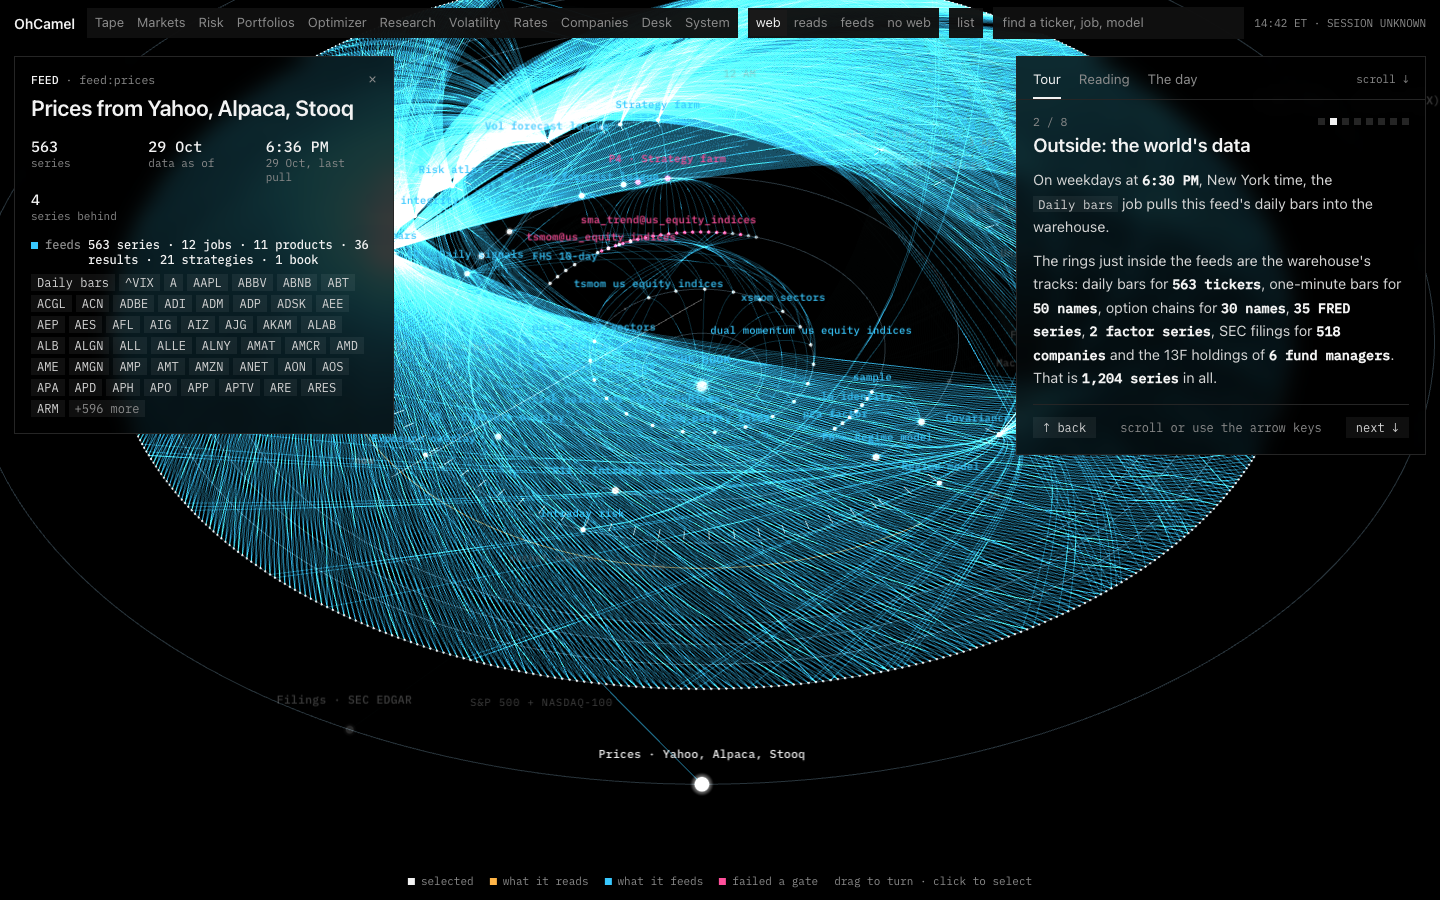
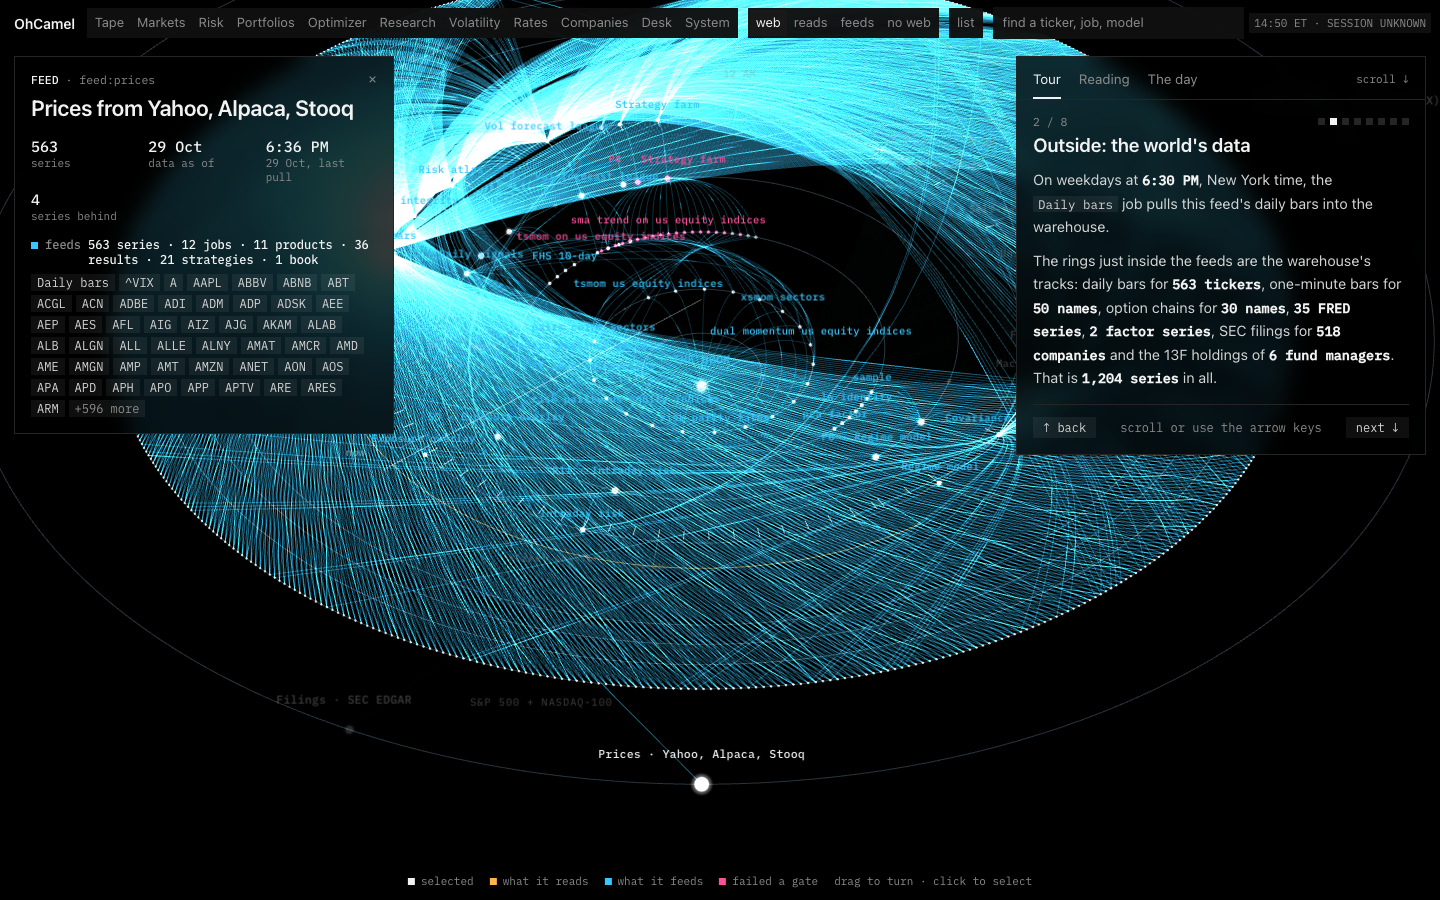
web: the machine's plain words for farm cells, chips that name their track, a status tile and a README that shows the machine
A farm cell's label is its key (dual_momentum@international); chips, scene labels, the list and the
search fallback now write it in words through one helper, shownLabel (the server's ids and labels are
unchanged, and search still matches the raw label). A series chip whose track is the minute, option or
filings track says so (AAPL minute), through chipLabel, so it is no longer the same as its daily bars.
The leaderboard's cell names carry their full plain name as a title, for when they end in an ellipsis.
The bar's status gets a solid tile like its controls, so the book step's edges cannot wash it out.
README shows the machine's first tour step in place of the old front page. The eight machine shots are
retaken from the scratch store.

Changed region(s): [[0.0938, 0.1244, 0.8438, 0.7778], [0.5312, 0.0933, 0.7188, 0.3111], [0.2188, 0.0, 0.4375, 0.1556]]

diff --git a/quant/web/src/pages/machine/shown.test.ts b/quant/web/src/pages/machine/shown.test.ts
@@ -1,0 +1,53 @@
+import { describe, expect, it } from "vitest";
+import { FIXTURE } from "./fixture";
+import { chipLabel, shownLabel } from "./shown";
+import type { MNode } from "./types";
+
+const at = (k: MNode["k"], l: string, m: Record<string, unknown> = {}): Pick<MNode, "k" | "l" | "m"> => ({ k, l, m });
+
+describe("shownLabel", () => {
+  it("writes a farm cell's key in words: the at sign is 'on', underscores are spaces", () => {
+    expect(shownLabel(at("result", "dual_momentum@international"))).toBe("dual momentum on international");
+    expect(shownLabel(at("result", "tsmom@us_equity_indices"))).toBe("tsmom on us equity indices");
+  });
+
+  it("reads every result of the fixture as the plain name the server gives it", () => {
+    const cells = FIXTURE.nodes.filter((n) => n.k === "result" && n.l.includes("@"));
+    expect(cells.length).toBeGreaterThan(1);
+    for (const n of cells) expect(shownLabel(n)).toBe(n.n);
+  });
+
+  it("leaves the label of every other kind as it is, underscores and all", () => {
+    for (const k of ["series", "strategy", "product", "job", "feed", "book", "kill", "limit"] as const) expect(shownLabel(at(k, "a_b@c"))).toBe("a_b@c");
+  });
+
+  it("leaves a result label that has neither mark alone", () => {
+    expect(shownLabel(at("result", "GARCH"))).toBe("GARCH");
+  });
+});
+
+describe("chipLabel", () => {
+  it("names the track of a series that is not the ticker's daily bars", () => {
+    expect(chipLabel(at("series", "AAPL", { track: "minute" }))).toBe("AAPL minute");
+    expect(chipLabel(at("series", "AAPL", { track: "options" }))).toBe("AAPL options");
+    expect(chipLabel(at("series", "AAPL", { track: "filings" }))).toBe("AAPL filings");
+  });
+
+  it("leaves the daily bars, and series that carry their own names, as they are", () => {
+    expect(chipLabel(at("series", "AAPL", { track: "daily" }))).toBe("AAPL");
+    expect(chipLabel(at("series", "CPIAUCSL", { track: "macro" }))).toBe("CPIAUCSL");
+    expect(chipLabel(at("series", "FF5", { track: "factors" }))).toBe("FF5");
+    expect(chipLabel(at("series", "AAPL"))).toBe("AAPL");
+  });
+
+  it("gives a result its plain words and names no track for anything but a series", () => {
+    expect(chipLabel(at("result", "xsmom@sectors", { track: "minute" }))).toBe("xsmom on sectors");
+    expect(chipLabel(at("strategy", "pairs distance sectors", { track: "minute" }))).toBe("pairs distance sectors");
+  });
+
+  it("makes the chips of one ticker's tracks different from each other", () => {
+    const ticker = FIXTURE.nodes.filter((n) => n.k === "series" && n.l === "NVDA");
+    expect(ticker.length).toBeGreaterThan(1);
+    expect(new Set(ticker.map(chipLabel)).size).toBe(ticker.length);
+  });
+});

diff --git a/quant/web/src/pages/machine/shown.ts b/quant/web/src/pages/machine/shown.ts
@@ -1,0 +1,27 @@
+/**
+ * How a node's short label (`l`) is written on the page: one rule, for the scene's labels, the chips and the list.
+ * The server's ids and labels are not changed, and search still matches the raw label as well. Pure.
+ */
+import type { MNode } from "./types";
+
+/**
+ * A node's label in plain words. A farm cell's label is its key ("dual_momentum@international"), which reads as
+ * the code it is, so "@" is read as " on " and the underscores as spaces ("dual momentum on international").
+ * Every other kind's label is already words and comes back as it is.
+ */
+export function shownLabel(n: Pick<MNode, "k" | "l">): string {
+  return n.k === "result" ? n.l.replace(/@/g, " on ").replace(/_/g, " ") : n.l;
+}
+
+/** The tracks whose series carry a ticker's label, the same as its daily bars' ("AAPL"), so a chip must say which it is. */
+const TRACK_WORD: Record<string, string> = { minute: "minute", options: "options", filings: "filings" };
+
+/**
+ * A node's label on a chip: `shownLabel`, and for a series that is not the ticker's daily bars, its track
+ * ("AAPL minute", "AAPL options", "AAPL filings"). A daily series, and the series whose labels are their own names
+ * (a FRED series, a factor, a filer), stay as they are.
+ */
+export function chipLabel(n: Pick<MNode, "k" | "l" | "m">): string {
+  const track = n.k === "series" && typeof n.m.track === "string" ? TRACK_WORD[n.m.track] : undefined;
+  return track ? `${shownLabel(n)} ${track}` : shownLabel(n);
+}

diff --git a/quant/web/src/pages/machine/prose.ts b/quant/web/src/pages/machine/prose.ts
@@ -4,6 +4,7 @@
  */
 import { hm, instant, num, nyDay, nyTime, nyYear, pct, plural } from "./fmt";
 import type { MNode, Run } from "./types";
+import { shownLabel } from "./shown";
 import { directReaders, webOf } from "./web";
 import type { GraphIndex } from "./web";
 
@@ -106,7 +107,7 @@ export function reason(gi: GraphIndex, s: string): string {
 export const node = (gi: GraphIndex, i: number): MNode => gi.out.nodes[i];
 /** How a node is named in running text: its plain name where its label is a code or a slug. */
 function refText(n: MNode): string {
-  if (n.k === "product" || n.k === "result") return n.n || n.l;
+  if (n.k === "product" || n.k === "result") return n.n || shownLabel(n);
   if (n.k === "book") return "the book";
   if (n.k === "kill") return "the kill switch";
   return n.l || n.id;
@@ -147,7 +148,7 @@ export function readers(gi: GraphIndex, i: number): Seg[] {
 /** A covariance estimator by its node's label ("lw constant corr"), or its id in words when there is no node. */
 export function estimator(gi: GraphIndex, e: string): Seg {
   const i = gi.byId.get(`ce:${e}`);
-  return ref(gi, `ce:${e}`, (i !== undefined && node(gi, i).l) || e.replace(/_/g, " "));
+  return ref(gi, `ce:${e}`, (i !== undefined && shownLabel(node(gi, i))) || e.replace(/_/g, " "));
 }
 /** A farm cell by its key ("tsmom@us_equity_indices"): its node's name, or the key in words when there is no node. */
 export function cellRef(gi: GraphIndex, key: string): Seg {

diff --git a/quant/web/src/pages/machine/FocusPanel.tsx b/quant/web/src/pages/machine/FocusPanel.tsx
@@ -8,6 +8,7 @@ import { instant, num, nyDay, nyTime, pct, plural } from "./fmt";
 import { cellRef, estimator, fin, jobRuns, known, obj, reason, rows, schedule, str } from "./prose";
 import type { Seg } from "./prose";
 import { Segs } from "./Segs";
+import { chipLabel } from "./shown";
 import type { MNode, NodeKind, Run } from "./types";
 import { countKinds, nearestFirst, summaryLine, webOf } from "./web";
 import type { GraphIndex, WebMode } from "./web";
@@ -94,7 +95,7 @@ function Side({ gi, tone, word, web, onSelect }: { gi: GraphIndex; tone: string;
 function Chip({ n, note, onSelect }: { n: MNode; note?: string; onSelect(id: string): void }) {
   return (
     <button type="button" className={`mx-chip${/FAIL/.test(str(n.m.verdict) ?? "") ? " fail" : ""}`} title={n.n} onClick={() => onSelect(n.id)}>
-      {n.l}
+      {chipLabel(n)}
       {note && <sub>{note}</sub>}
     </button>
   );
@@ -286,7 +287,7 @@ function JobLens({ gi, n, runs, now, onSelect }: LensProps) {
 }
 
 function Tok({ gi, seg, onSelect }: { gi: GraphIndex; seg: Seg; onSelect(id: string): void }) {
-  return <Segs segs={[seg]} has={(id) => gi.byId.has(id)} onSelect={onSelect} />;
+  return <Segs segs={[seg]} has={(id) => gi.byId.has(id)} onSelect={onSelect} titled />;
 }
 
 function Table({ title, head, body, more }: { title: string; head: string[]; body: ReactNode[][]; more?: number }) {

diff --git a/quant/web/src/pages/machine/scene-labels.ts b/quant/web/src/pages/machine/scene-labels.ts
@@ -16,6 +16,7 @@ import type { LabelCand } from "./labels";
 import { circularMean, hourAngle, RADIUS, toXYZ } from "./layout";
 import { failed, isSideTrack, toScreen } from "./scene-geom";
 import type { CentreWeb, Vec3 } from "./scene-geom";
+import { shownLabel } from "./shown";
 import type { MNode } from "./types";
 import type { GraphIndex } from "./web";
 
@@ -53,10 +54,11 @@ const withNote = (label: string, note: unknown): string => (typeof note === "str
 
 /** What a node's label says: the short label, and for a feed who it comes from, for a product its name, for the kill switch its state. */
 function textOf(n: MNode): string {
-  if (n.k === "feed") return withNote(n.l, n.m.who);
-  if (n.k === "product") return withNote(n.l, n.n);
-  if (n.k === "kill") return withNote(n.l, n.m.state);
-  return n.l;
+  const l = shownLabel(n);
+  if (n.k === "feed") return withNote(l, n.m.who);
+  if (n.k === "product") return withNote(l, n.n);
+  if (n.k === "kill") return withNote(l, n.m.state);
+  return l;
 }
 
 /** The kinds labelled with nothing selected, by their priority; any other kind has a label only in a web. */

diff --git a/quant/web/src/pages/machine/Segs.tsx b/quant/web/src/pages/machine/Segs.tsx
@@ -11,9 +11,11 @@ export interface SegsProps {
   onSelect: (id: string) => void;
   /** Writes a node's reference as a link, where the page has addresses to offer: the list does, the panels select in place. */
   link?: (id: string, text: string) => ReactNode;
+  /** Gives each link its own text as a `title`, for links in a table, where a long name ends in an ellipsis. */
+  titled?: boolean;
 }
 
-export function Segs({ segs, has, onSelect, link }: SegsProps) {
+export function Segs({ segs, has, onSelect, link, titled }: SegsProps) {
   return (
     <>
       {segs.map((s, k) => {
@@ -21,7 +23,7 @@ export function Segs({ segs, has, onSelect, link }: SegsProps) {
         if ("ref" in s && has(s.ref)) {
           if (link) return <Fragment key={k}>{link(s.ref, s.t)}</Fragment>;
           return (
-            <button key={k} type="button" className="mx-tok" onClick={() => onSelect(s.ref)}>
+            <button key={k} type="button" className="mx-tok" title={titled ? s.t : undefined} onClick={() => onSelect(s.ref)}>
               {s.t}
             </button>
           );

diff --git a/quant/web/src/pages/machine/TopBar.tsx b/quant/web/src/pages/machine/TopBar.tsx
@@ -8,6 +8,7 @@ import { commandPath, parseCommand } from "../../shell/command";
 import { formatDateline } from "../../shell/dateline";
 import { sessionOf, useOps } from "../../shell/ops";
 import { search } from "./search";
+import { shownLabel } from "./shown";
 import type { MNode } from "./types";
 import { viewSearch } from "./url";
 import type { View } from "./url";
@@ -127,7 +128,7 @@ export function TopBar({ gi, now, view, mode, onMode, onSelect, drawable }: TopB
   );
 }
 
-export const hitName = (n: MNode): string => (n.k === "series" && n.n && n.n !== n.l ? `${n.l} · ${n.n}` : n.n || n.l);
+export const hitName = (n: MNode): string => (n.k === "series" && n.n && n.n !== n.l ? `${n.l} · ${n.n}` : n.n || shownLabel(n));
 const hitKind = (n: MNode): string => (typeof n.m.track === "string" && n.m.track !== "daily" ? `${n.k} · ${n.m.track}` : n.k);
 
 function Search({ gi, onSelect }: { gi: GraphIndex; onSelect(id: string): void }) {

diff --git a/quant/web/src/pages/machine/panels.test.tsx b/quant/web/src/pages/machine/panels.test.tsx
@@ -178,6 +178,18 @@ describe("FocusPanel", () => {
     expect(focus(FIXTURE, "p:farm.sweep")).not.toMatch(/<th[^>]*><\/th>/);
   });
 
+  it("gives each cell of the leaderboard its full plain name as a title, for when the name is cut short", () => {
+    const html = focus(FIXTURE, "p:farm.sweep");
+    expect(html).toMatch(/<button[^>]*class="mx-tok"[^>]*title="tsmom on us equity indices"/);
+  });
+
+  it("writes a farm cell's chip in words, and a ticker's minute chip as such", () => {
+    const farm = focus(FIXTURE, "p:farm.sweep");
+    expect(farm).toMatch(/class="mx-chip[^"]*"[^>]*>tsmom on us equity indices</);
+    expect(farm).not.toContain(">tsmom@us_equity_indices<");
+    expect(focus(FIXTURE, "p:vol.forecast_league")).toMatch(/>NVDA minute</);
+  });
+
   it("says a job's schedule in the readings' words, never the wire's", () => {
     const weekly = focus(FIXTURE, "j:regime.hmm");
     expect(weekly).toContain("once a week");

diff --git a/quant/web/src/pages/machine/Segs.test.tsx b/quant/web/src/pages/machine/Segs.test.tsx
@@ -21,6 +21,12 @@ describe("Segs", () => {
     expect(out).toContain(">NVDA</button>");
   });
 
+  it("gives a link its own text as a title only when asked, for a name a table may cut short", () => {
+    const segs: Seg[] = [{ ref: "c:tsmom@rates", t: "tsmom on rates" }];
+    expect(html(segs)).not.toContain("title=");
+    expect(renderToStaticMarkup(<Segs segs={segs} has={() => true} onSelect={() => {}} titled />)).toContain('title="tsmom on rates"');
+  });
+
   it("writes a ref as the page's link when it has one, and plain text when the node is not in the graph", () => {
     const link = (id: string, t: string) => <a href={`?sel=${id}`}>{t}</a>;
     const out = renderToStaticMarkup(<Segs segs={[{ ref: "d:NVDA", t: "NVDA" }, { ref: "d:GONE", t: "GONE" }]} has={(id) => id === "d:NVDA"} onSelect={() => {}} link={link} />);

diff --git a/quant/web/src/pages/machine/ListView.test.tsx b/quant/web/src/pages/machine/ListView.test.tsx
@@ -136,6 +136,13 @@ describe("ListView", () => {
     expect(body).not.toContain("<button");
   });
 
+  it("writes a farm cell's chip in words and a ticker's other tracks by name", () => {
+    const farm = list(FIXTURE, "?sel=p:farm.sweep&view=list");
+    expect(farm).toMatch(/class="mx-chip"[^>]*>tsmom on us equity indices</);
+    expect(farm).not.toContain(">tsmom@us_equity_indices<");
+    expect(list(FIXTURE, "?sel=p:vol.forecast_league&view=list")).toMatch(/class="mx-chip"[^>]*>NVDA minute</);
+  });
+
   it("opens the node a tour address's step names, as the machine would select it", () => {
     expect(list(FIXTURE, "?step=3&view=list")).toContain("mx-node-body");
     expect(openNodes(list(FIXTURE, "?step=1&view=list"))).toBe(0);

diff --git a/quant/web/src/pages/machine/ListView.tsx b/quant/web/src/pages/machine/ListView.tsx
@@ -13,6 +13,7 @@ import { num } from "./fmt";
 import { RADIUS } from "./layout";
 import { reading } from "./readings";
 import { Paras } from "./Segs";
+import { chipLabel } from "./shown";
 import { hitName, TopBar } from "./TopBar";
 import { stepView } from "./tour";
 import type { Ring, Run } from "./types";
@@ -215,7 +216,7 @@ function Side({ gi, view, tone, word, web }: { gi: GraphIndex; view: View; tone:
         {shown.map((j) => (
           <li key={j}>
             <NodeLink id={gi.out.nodes[j].id} view={view} className="mx-chip">
-              {gi.out.nodes[j].l}
+              {chipLabel(gi.out.nodes[j])}
             </NodeLink>
           </li>
         ))}

diff --git a/quant/web/src/pages/machine/machine.css b/quant/web/src/pages/machine/machine.css
@@ -287,6 +287,11 @@
 }
 .mx-status {
   flex: none;
+  /* a tile like the controls', so the edges behind the bar cannot wash it out; the negative margin takes the padding
+     back, so the bar lays out exactly as it did without it */
+  padding: 3px 5px;
+  margin: 0 -5px;
+  background: var(--mx-raise);
   font: 11px var(--mx-font-mono);
   font-variant-numeric: tabular-nums;
   color: var(--mx-dim);
